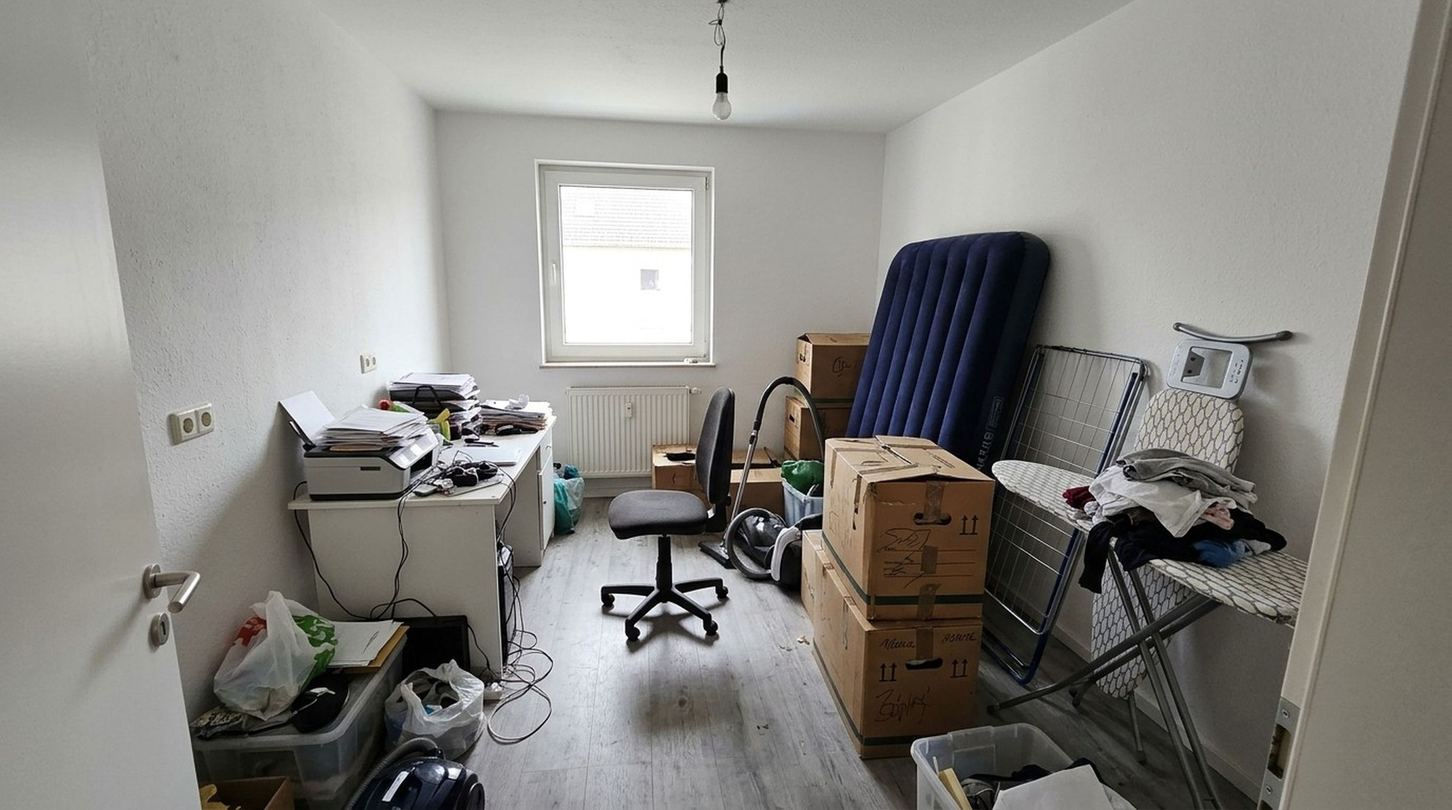
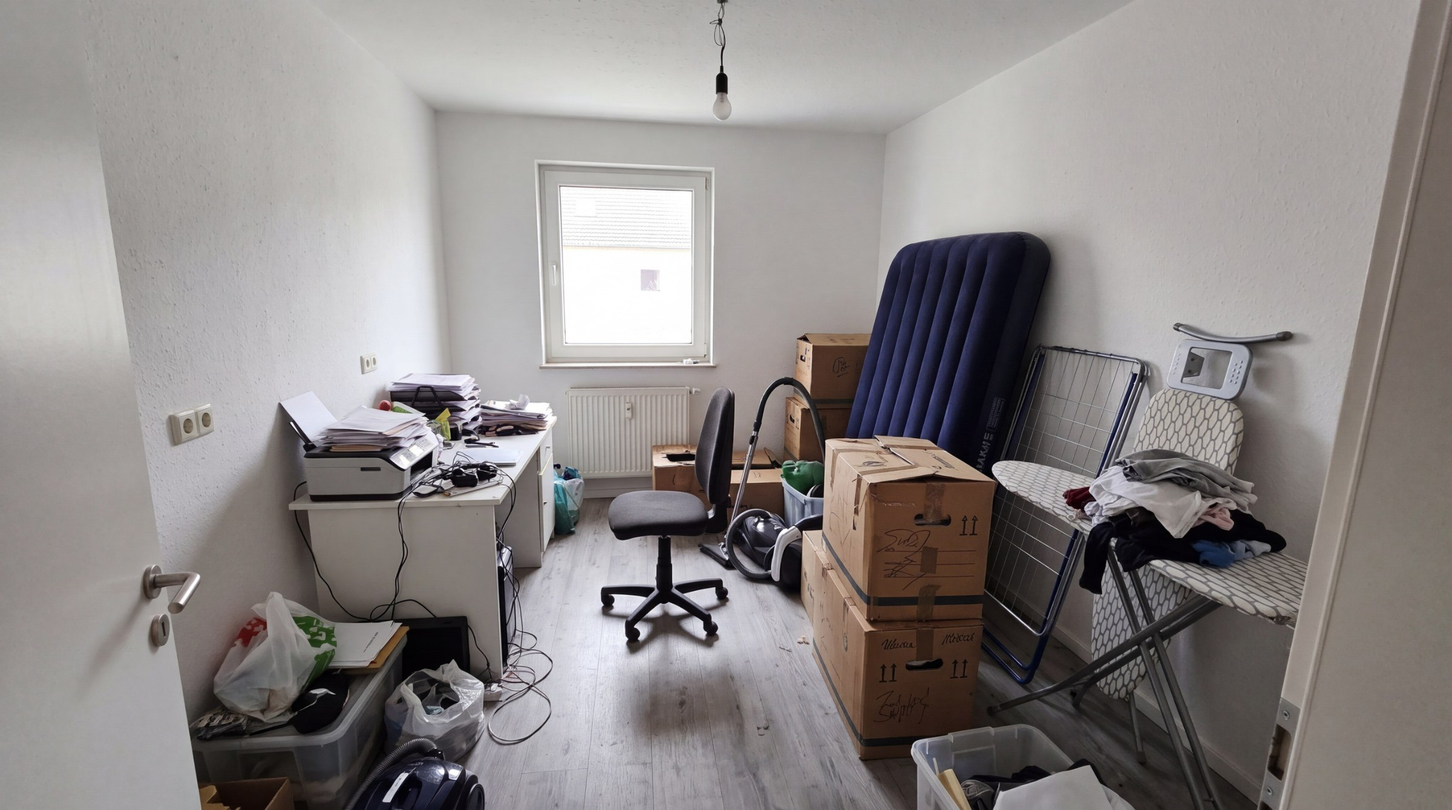
Images: replace 9 upscaled, blurry photos with sharp 4K-based versions (same framing)
Weihnachten, Minimalistisch, Sofa, Kinderzimmer and Gaestezimmer images
were 1376 px renders stretched to 2400 px. Re-rendered at 4K from the
same images, downscaled to 2400/1200, new OG crops, cache-busted URLs.

Claude-Session: https://claude.ai/code/session_01LahaRAnpmdkz9wijRiE1rf

diff --git a/magazin/kinderzimmer-das-mitwaechst/index.html b/magazin/kinderzimmer-das-mitwaechst/index.html
@@ -12,7 +12,7 @@
 <meta property="og:title" content="Ein Kinderzimmer, das mitwächst">
 <meta property="og:description" content="Gleicher Raum, gleicher Schrank, gleiches Fenster. Aber ein Zimmer, das noch in fünf Jahren passt.">
 <meta property="og:url" content="https://www.faindz.de/magazin/kinderzimmer-das-mitwaechst/">
-<meta property="og:image" content="https://www.faindz.de/magazin/img/kinderzimmer-og.jpg">
+<meta property="og:image" content="https://www.faindz.de/magazin/img/kinderzimmer-og.jpg?v=hq1">
 <meta name="twitter:card" content="summary_large_image">
 <link rel="icon" href="/favicon.ico" sizes="48x48">
 <link rel="icon" type="image/png" sizes="192x192" href="/favicon-192.png">
@@ -21,14 +21,14 @@
 <link rel="preconnect" href="https://fonts.gstatic.com" crossorigin>
 <link href="https://fonts.googleapis.com/css2?family=Inter:wght@300;400;500;600;700;800&family=JetBrains+Mono:wght@400;500&family=Fraunces:opsz,wght,SOFT@9..144,300;9..144,400;9..144,500;9..144,600&display=swap" rel="stylesheet">
 <link rel="stylesheet" href="/magazin/magazin.css?v=20261112a">
-<link rel="preload" as="image" href="/magazin/img/kinderzimmer-nachher-2400.jpg" imagesrcset="/magazin/img/kinderzimmer-nachher-1200.jpg 1200w, /magazin/img/kinderzimmer-nachher-2400.jpg 2400w" imagesizes="100vw">
+<link rel="preload" as="image" href="/magazin/img/kinderzimmer-nachher-2400.jpg?v=hq1" imagesrcset="/magazin/img/kinderzimmer-nachher-1200.jpg?v=hq1 1200w, /magazin/img/kinderzimmer-nachher-2400.jpg?v=hq1 2400w" imagesizes="100vw">
 <script type="application/ld+json">
 {
   "@context": "https://schema.org",
   "@type": "Article",
   "headline": "Ein Kinderzimmer, das mitwächst",
   "description": "Wie ein Kinderzimmer vom Kleinkind bis zur Schulzeit funktioniert: ein Bett, das bleibt, Regale auf Kinderhöhe, ein mitwachsender Schreibtisch und Farbe nur an der Wand. Mit Vorher-Nachher.",
-  "image": ["https://www.faindz.de/magazin/img/kinderzimmer-nachher-2400.jpg", "https://www.faindz.de/magazin/img/kinderzimmer-vorher-2400.jpg", "https://www.faindz.de/magazin/img/kinderzimmer-og.jpg"],
+  "image": ["https://www.faindz.de/magazin/img/kinderzimmer-nachher-2400.jpg?v=hq1", "https://www.faindz.de/magazin/img/kinderzimmer-vorher-2400.jpg?v=hq1", "https://www.faindz.de/magazin/img/kinderzimmer-og.jpg?v=hq1"],
   "datePublished": "2026-11-19",
   "dateModified": "2026-11-19",
   "inLanguage": "de-DE",
@@ -55,14 +55,14 @@
 <main>
   <div class="swipe" aria-label="Vorher und Nachher, zum Wechseln wischen">
     <div class="swipe-track">
-      <figure class="swipe-slide before-slide"><img src="/magazin/img/kinderzimmer-vorher-1200.jpg" alt="Vorher: Kinderzimmer mit weißem Kleinkindbett mit Gitter, bunter Bettwäsche, Spielzeug überall auf dem Boden, Plastiktisch mit zwei kleinen Stühlen und weißem Kleiderschrank" width="1200" height="670" loading="lazy"><figcaption class="swipe-tag">Vorher</figcaption></figure>
-      <figure class="swipe-slide after"><img src="/magazin/img/kinderzimmer-nachher-1200.jpg" alt="Nachher: dasselbe Kinderzimmer mit Holzbett 90 x 200 mit Rausfallschutz, salbeigrüner Bettwäsche, salbeigrün gestrichener unterer Wand am Fenster, kleinem Schreibtisch, weißem Würfelregal mit Körben, rundem cremefarbenem Teppich und Papierlampe" width="1200" height="670" loading="lazy"><figcaption class="swipe-tag">Nachher</figcaption></figure>
+      <figure class="swipe-slide before-slide"><img src="/magazin/img/kinderzimmer-vorher-1200.jpg?v=hq1" alt="Vorher: Kinderzimmer mit weißem Kleinkindbett mit Gitter, bunter Bettwäsche, Spielzeug überall auf dem Boden, Plastiktisch mit zwei kleinen Stühlen und weißem Kleiderschrank" width="1200" height="670" loading="lazy"><figcaption class="swipe-tag">Vorher</figcaption></figure>
+      <figure class="swipe-slide after"><img src="/magazin/img/kinderzimmer-nachher-1200.jpg?v=hq1" alt="Nachher: dasselbe Kinderzimmer mit Holzbett 90 x 200 mit Rausfallschutz, salbeigrüner Bettwäsche, salbeigrün gestrichener unterer Wand am Fenster, kleinem Schreibtisch, weißem Würfelregal mit Körben, rundem cremefarbenem Teppich und Papierlampe" width="1200" height="670" loading="lazy"><figcaption class="swipe-tag">Nachher</figcaption></figure>
     </div>
     <div class="swipe-nav"><button type="button" aria-pressed="true" data-i="0">Vorher</button><button type="button" aria-pressed="false" data-i="1">Nachher</button></div>
   </div>
   <section class="cover" data-cover aria-label="Vorher-Nachher-Vergleich">
-    <img src="/magazin/img/kinderzimmer-nachher-2400.jpg" srcset="/magazin/img/kinderzimmer-nachher-1200.jpg 1200w, /magazin/img/kinderzimmer-nachher-2400.jpg 2400w" sizes="100vw" alt="Nachher: dasselbe Kinderzimmer mit Holzbett 90 x 200 mit Rausfallschutz, salbeigrüner Bettwäsche, salbeigrün gestrichener unterer Wand am Fenster, kleinem Schreibtisch, weißem Würfelregal mit Körben, rundem cremefarbenem Teppich und Papierlampe" width="2400" height="1340">
-    <img class="before" src="/magazin/img/kinderzimmer-vorher-2400.jpg" srcset="/magazin/img/kinderzimmer-vorher-1200.jpg 1200w, /magazin/img/kinderzimmer-vorher-2400.jpg 2400w" sizes="100vw" alt="Vorher: Kinderzimmer mit weißem Kleinkindbett mit Gitter, bunter Bettwäsche, Spielzeug überall auf dem Boden, Plastiktisch mit zwei kleinen Stühlen und weißem Kleiderschrank" width="2400" height="1340">
+    <img src="/magazin/img/kinderzimmer-nachher-2400.jpg?v=hq1" srcset="/magazin/img/kinderzimmer-nachher-1200.jpg?v=hq1 1200w, /magazin/img/kinderzimmer-nachher-2400.jpg?v=hq1 2400w" sizes="100vw" alt="Nachher: dasselbe Kinderzimmer mit Holzbett 90 x 200 mit Rausfallschutz, salbeigrüner Bettwäsche, salbeigrün gestrichener unterer Wand am Fenster, kleinem Schreibtisch, weißem Würfelregal mit Körben, rundem cremefarbenem Teppich und Papierlampe" width="2400" height="1340">
+    <img class="before" src="/magazin/img/kinderzimmer-vorher-2400.jpg?v=hq1" srcset="/magazin/img/kinderzimmer-vorher-1200.jpg?v=hq1 1200w, /magazin/img/kinderzimmer-vorher-2400.jpg?v=hq1 2400w" sizes="100vw" alt="Vorher: Kinderzimmer mit weißem Kleinkindbett mit Gitter, bunter Bettwäsche, Spielzeug überall auf dem Boden, Plastiktisch mit zwei kleinen Stühlen und weißem Kleiderschrank" width="2400" height="1340">
     <div class="cover-line" aria-hidden="true"></div>
     <input class="cover-range" type="range" min="0" max="100" value="50" aria-label="Vorher-Nachher-Regler">
     <div class="cover-knob" aria-hidden="true">
@@ -199,7 +199,7 @@
   </div>
 
   <section class="try" aria-labelledby="try-title">
-    <img src="/magazin/img/kinderzimmer-nachher-1200.jpg" alt="" width="1200" height="670" loading="lazy">
+    <img src="/magazin/img/kinderzimmer-nachher-1200.jpg?v=hq1" alt="" width="1200" height="670" loading="lazy">
     <div class="wrap">
       <h2 id="try-title">Wie sähe das bei dir aus?</h2>
       <p>Wie könnte das Kinderzimmer bei dir aussehen? Lade ein Foto hoch und probier verschiedene Ideen aus.</p>

diff --git a/magazin/gaestezimmer-und-arbeitszimmer/index.html b/magazin/gaestezimmer-und-arbeitszimmer/index.html
@@ -12,7 +12,7 @@
 <meta property="og:title" content="Gästezimmer und Arbeitszimmer in einem">
 <meta property="og:description" content="Gleicher Raum, gleiches Fenster. Vorher Abstellkammer, jetzt Büro unter der Woche und Gästezimmer am Wochenende.">
 <meta property="og:url" content="https://www.faindz.de/magazin/gaestezimmer-und-arbeitszimmer/">
-<meta property="og:image" content="https://www.faindz.de/magazin/img/gaeste-og.jpg">
+<meta property="og:image" content="https://www.faindz.de/magazin/img/gaeste-og.jpg?v=hq1">
 <meta name="twitter:card" content="summary_large_image">
 <link rel="icon" href="/favicon.ico" sizes="48x48">
 <link rel="icon" type="image/png" sizes="192x192" href="/favicon-192.png">
@@ -21,14 +21,14 @@
 <link rel="preconnect" href="https://fonts.gstatic.com" crossorigin>
 <link href="https://fonts.googleapis.com/css2?family=Inter:wght@300;400;500;600;700;800&family=JetBrains+Mono:wght@400;500&family=Fraunces:opsz,wght,SOFT@9..144,300;9..144,400;9..144,500;9..144,600&display=swap" rel="stylesheet">
 <link rel="stylesheet" href="/magazin/magazin.css?v=20261112a">
-<link rel="preload" as="image" href="/magazin/img/gaeste-nachher-2400.jpg" imagesrcset="/magazin/img/gaeste-nachher-1200.jpg 1200w, /magazin/img/gaeste-nachher-2400.jpg 2400w" imagesizes="100vw">
+<link rel="preload" as="image" href="/magazin/img/gaeste-nachher-2400.jpg?v=hq1" imagesrcset="/magazin/img/gaeste-nachher-1200.jpg?v=hq1 1200w, /magazin/img/gaeste-nachher-2400.jpg?v=hq1 2400w" imagesizes="100vw">
 <script type="application/ld+json">
 {
   "@context": "https://schema.org",
   "@type": "Article",
   "headline": "Gästezimmer und Arbeitszimmer in einem",
   "description": "Wie aus einer Abstellkammer ein Zimmer wird, in dem man arbeiten und Besuch übernachten lassen kann: Schlafsofa, Schreibtisch am Fenster, Regale an der Wand und eine Kleiderstange. Mit Vorher-Nachher.",
-  "image": ["https://www.faindz.de/magazin/img/gaeste-nachher-2400.jpg", "https://www.faindz.de/magazin/img/gaeste-vorher-2400.jpg", "https://www.faindz.de/magazin/img/gaeste-og.jpg"],
+  "image": ["https://www.faindz.de/magazin/img/gaeste-nachher-2400.jpg?v=hq1", "https://www.faindz.de/magazin/img/gaeste-vorher-2400.jpg?v=hq1", "https://www.faindz.de/magazin/img/gaeste-og.jpg?v=hq1"],
   "datePublished": "2026-11-19",
   "dateModified": "2026-11-19",
   "inLanguage": "de-DE",
@@ -55,14 +55,14 @@
 <main>
   <div class="swipe" aria-label="Vorher und Nachher, zum Wechseln wischen">
     <div class="swipe-track">
-      <figure class="swipe-slide before-slide"><img src="/magazin/img/gaeste-vorher-1200.jpg" alt="Vorher: kleines Zimmer voller Umzugskartons, mit Bügelbrett, Wäscheständer, aufblasbarer Matratze an der Wand, Staubsauger und einem weißen Schreibtisch voller Papier und Drucker" width="1200" height="670" loading="lazy"><figcaption class="swipe-tag">Vorher</figcaption></figure>
-      <figure class="swipe-slide after"><img src="/magazin/img/gaeste-nachher-1200.jpg" alt="Nachher: dasselbe Zimmer mit hellgrauem Schlafsofa mit Kissen und Decke, Eichenschreibtisch mit schwarzer Leuchte und Laptop am Fenster, Polsterstuhl, zwei Wandregalen mit Büchern, Kleiderstange mit Holzbügeln, Leinenvorhängen und einem Vintage-Teppich in Terrakotta" width="1200" height="670" loading="lazy"><figcaption class="swipe-tag">Nachher</figcaption></figure>
+      <figure class="swipe-slide before-slide"><img src="/magazin/img/gaeste-vorher-1200.jpg?v=hq1" alt="Vorher: kleines Zimmer voller Umzugskartons, mit Bügelbrett, Wäscheständer, aufblasbarer Matratze an der Wand, Staubsauger und einem weißen Schreibtisch voller Papier und Drucker" width="1200" height="670" loading="lazy"><figcaption class="swipe-tag">Vorher</figcaption></figure>
+      <figure class="swipe-slide after"><img src="/magazin/img/gaeste-nachher-1200.jpg?v=hq1" alt="Nachher: dasselbe Zimmer mit hellgrauem Schlafsofa mit Kissen und Decke, Eichenschreibtisch mit schwarzer Leuchte und Laptop am Fenster, Polsterstuhl, zwei Wandregalen mit Büchern, Kleiderstange mit Holzbügeln, Leinenvorhängen und einem Vintage-Teppich in Terrakotta" width="1200" height="670" loading="lazy"><figcaption class="swipe-tag">Nachher</figcaption></figure>
     </div>
     <div class="swipe-nav"><button type="button" aria-pressed="true" data-i="0">Vorher</button><button type="button" aria-pressed="false" data-i="1">Nachher</button></div>
   </div>
   <section class="cover" data-cover aria-label="Vorher-Nachher-Vergleich">
-    <img src="/magazin/img/gaeste-nachher-2400.jpg" srcset="/magazin/img/gaeste-nachher-1200.jpg 1200w, /magazin/img/gaeste-nachher-2400.jpg 2400w" sizes="100vw" alt="Nachher: dasselbe Zimmer mit hellgrauem Schlafsofa mit Kissen und Decke, Eichenschreibtisch mit schwarzer Leuchte und Laptop am Fenster, Polsterstuhl, zwei Wandregalen mit Büchern, Kleiderstange mit Holzbügeln, Leinenvorhängen und einem Vintage-Teppich in Terrakotta" width="2400" height="1340">
-    <img class="before" src="/magazin/img/gaeste-vorher-2400.jpg" srcset="/magazin/img/gaeste-vorher-1200.jpg 1200w, /magazin/img/gaeste-vorher-2400.jpg 2400w" sizes="100vw" alt="Vorher: kleines Zimmer voller Umzugskartons, mit Bügelbrett, Wäscheständer, aufblasbarer Matratze an der Wand, Staubsauger und einem weißen Schreibtisch voller Papier und Drucker" width="2400" height="1340">
+    <img src="/magazin/img/gaeste-nachher-2400.jpg?v=hq1" srcset="/magazin/img/gaeste-nachher-1200.jpg?v=hq1 1200w, /magazin/img/gaeste-nachher-2400.jpg?v=hq1 2400w" sizes="100vw" alt="Nachher: dasselbe Zimmer mit hellgrauem Schlafsofa mit Kissen und Decke, Eichenschreibtisch mit schwarzer Leuchte und Laptop am Fenster, Polsterstuhl, zwei Wandregalen mit Büchern, Kleiderstange mit Holzbügeln, Leinenvorhängen und einem Vintage-Teppich in Terrakotta" width="2400" height="1340">
+    <img class="before" src="/magazin/img/gaeste-vorher-2400.jpg?v=hq1" srcset="/magazin/img/gaeste-vorher-1200.jpg?v=hq1 1200w, /magazin/img/gaeste-vorher-2400.jpg?v=hq1 2400w" sizes="100vw" alt="Vorher: kleines Zimmer voller Umzugskartons, mit Bügelbrett, Wäscheständer, aufblasbarer Matratze an der Wand, Staubsauger und einem weißen Schreibtisch voller Papier und Drucker" width="2400" height="1340">
     <div class="cover-line" aria-hidden="true"></div>
     <input class="cover-range" type="range" min="0" max="100" value="50" aria-label="Vorher-Nachher-Regler">
     <div class="cover-knob" aria-hidden="true">
@@ -199,7 +199,7 @@
   </div>
 
   <section class="try" aria-labelledby="try-title">
-    <img src="/magazin/img/gaeste-nachher-1200.jpg" alt="" width="1200" height="670" loading="lazy">
+    <img src="/magazin/img/gaeste-nachher-1200.jpg?v=hq1" alt="" width="1200" height="670" loading="lazy">
     <div class="wrap">
       <h2 id="try-title">Wie sähe das bei dir aus?</h2>
       <p>Wie könnte dein Gästezimmer aussehen? Lade ein Foto hoch und probier es aus.</p>

diff --git a/magazin/weihnachtlich-dekorieren-ohne-kitsch/index.html b/magazin/weihnachtlich-dekorieren-ohne-kitsch/index.html
@@ -12,7 +12,7 @@
 <meta property="og:title" content="Weihnachtlich dekorieren ohne Kitsch">
 <meta property="og:description" content="Gleicher Raum, gleiches Sofa, gleicher Baum in der Ecke. Nur ist es jetzt kein Lager für Weihnachtsdeko mehr, sondern ein Ort für lange Abende.">
 <meta property="og:url" content="https://www.faindz.de/magazin/weihnachtlich-dekorieren-ohne-kitsch/">
-<meta property="og:image" content="https://www.faindz.de/magazin/img/weihnachten-og.jpg">
+<meta property="og:image" content="https://www.faindz.de/magazin/img/weihnachten-og.jpg?v=hq1">
 <meta name="twitter:card" content="summary_large_image">
 <link rel="icon" href="/favicon.ico" sizes="48x48">
 <link rel="icon" type="image/png" sizes="192x192" href="/favicon-192.png">
@@ -21,7 +21,7 @@
 <link rel="preconnect" href="https://fonts.gstatic.com" crossorigin>
 <link href="https://fonts.googleapis.com/css2?family=Inter:wght@300;400;500;600;700;800&family=JetBrains+Mono:wght@400;500&family=Fraunces:opsz,wght,SOFT@9..144,300;9..144,400;9..144,500;9..144,600&display=swap" rel="stylesheet">
 <link rel="stylesheet" href="/magazin/magazin.css?v=20261112a">
-<link rel="preload" as="image" href="/magazin/img/weihnachten-nachher-2400.jpg" imagesrcset="/magazin/img/weihnachten-nachher-1200.jpg 1200w, /magazin/img/weihnachten-nachher-2400.jpg 2400w" imagesizes="100vw">
+<link rel="preload" as="image" href="/magazin/img/weihnachten-nachher-2400.jpg?v=hq1" imagesrcset="/magazin/img/weihnachten-nachher-1200.jpg?v=hq1 1200w, /magazin/img/weihnachten-nachher-2400.jpg?v=hq1 2400w" imagesizes="100vw">
 <script type="application/ld+json">
 {
   "@context": "https://schema.org",
@@ -29,9 +29,9 @@
   "headline": "Weihnachtlich dekorieren ohne Kitsch",
   "description": "Weihnachtsdeko, die gemütlich wirkt statt überladen: warmweißes Licht, zwei Farben, Zweige statt Figuren. Mit Vorher-Nachher und einer Kurzfassung.",
   "image": [
-    "https://www.faindz.de/magazin/img/weihnachten-nachher-2400.jpg",
-    "https://www.faindz.de/magazin/img/weihnachten-vorher-2400.jpg",
-    "https://www.faindz.de/magazin/img/weihnachten-og.jpg"
+    "https://www.faindz.de/magazin/img/weihnachten-nachher-2400.jpg?v=hq1",
+    "https://www.faindz.de/magazin/img/weihnachten-vorher-2400.jpg?v=hq1",
+    "https://www.faindz.de/magazin/img/weihnachten-og.jpg?v=hq1"
   ],
   "datePublished": "2026-11-24",
   "dateModified": "2026-11-24",
@@ -67,14 +67,14 @@
 <main>
   <div class="swipe" aria-label="Vorher und Nachher, zum Wechseln wischen">
     <div class="swipe-track">
-      <figure class="swipe-slide before-slide"><img src="/magazin/img/weihnachten-vorher-1200.jpg" alt="Vorher: Wohnzimmer mit bunten Lichterketten, Lametta, rotem Tischtuch, Plastik-Weihnachtsmann, Rentierkissen und einem überladenen rot-goldenen Baum unter grellem Deckenlicht" width="1200" height="670" loading="lazy"><figcaption class="swipe-tag">Vorher</figcaption></figure>
-      <figure class="swipe-slide after"><img src="/magazin/img/weihnachten-nachher-1200.jpg" alt="Nachher: dasselbe Wohnzimmer mit schlankem Baum in einem Korb, nur warmweißen Lichtern, Kerzen auf einem Holztablett, Tannenzweigen in einer Glasvase und Leinenkissen in Creme, Salbei und Rost" width="1200" height="670" loading="lazy"><figcaption class="swipe-tag">Nachher</figcaption></figure>
+      <figure class="swipe-slide before-slide"><img src="/magazin/img/weihnachten-vorher-1200.jpg?v=hq1" alt="Vorher: Wohnzimmer mit bunten Lichterketten, Lametta, rotem Tischtuch, Plastik-Weihnachtsmann, Rentierkissen und einem überladenen rot-goldenen Baum unter grellem Deckenlicht" width="1200" height="670" loading="lazy"><figcaption class="swipe-tag">Vorher</figcaption></figure>
+      <figure class="swipe-slide after"><img src="/magazin/img/weihnachten-nachher-1200.jpg?v=hq1" alt="Nachher: dasselbe Wohnzimmer mit schlankem Baum in einem Korb, nur warmweißen Lichtern, Kerzen auf einem Holztablett, Tannenzweigen in einer Glasvase und Leinenkissen in Creme, Salbei und Rost" width="1200" height="670" loading="lazy"><figcaption class="swipe-tag">Nachher</figcaption></figure>
     </div>
     <div class="swipe-nav"><button type="button" aria-pressed="true" data-i="0">Vorher</button><button type="button" aria-pressed="false" data-i="1">Nachher</button></div>
   </div>
   <section class="cover" data-cover aria-label="Vorher-Nachher-Vergleich">
-    <img src="/magazin/img/weihnachten-nachher-2400.jpg" srcset="/magazin/img/weihnachten-nachher-1200.jpg 1200w, /magazin/img/weihnachten-nachher-2400.jpg 2400w" sizes="100vw" alt="Nachher: dasselbe Wohnzimmer mit schlankem Baum in einem Korb, nur warmweißen Lichtern, Kerzen auf einem Holztablett, Tannenzweigen in einer Glasvase und Leinenkissen in Creme, Salbei und Rost" width="2400" height="1340">
-    <img class="before" src="/magazin/img/weihnachten-vorher-2400.jpg" srcset="/magazin/img/weihnachten-vorher-1200.jpg 1200w, /magazin/img/weihnachten-vorher-2400.jpg 2400w" sizes="100vw" alt="Vorher: Wohnzimmer mit bunten Lichterketten, Lametta, rotem Tischtuch, Plastik-Weihnachtsmann, Rentierkissen und einem überladenen rot-goldenen Baum unter grellem Deckenlicht" width="2400" height="1340">
+    <img src="/magazin/img/weihnachten-nachher-2400.jpg?v=hq1" srcset="/magazin/img/weihnachten-nachher-1200.jpg?v=hq1 1200w, /magazin/img/weihnachten-nachher-2400.jpg?v=hq1 2400w" sizes="100vw" alt="Nachher: dasselbe Wohnzimmer mit schlankem Baum in einem Korb, nur warmweißen Lichtern, Kerzen auf einem Holztablett, Tannenzweigen in einer Glasvase und Leinenkissen in Creme, Salbei und Rost" width="2400" height="1340">
+    <img class="before" src="/magazin/img/weihnachten-vorher-2400.jpg?v=hq1" srcset="/magazin/img/weihnachten-vorher-1200.jpg?v=hq1 1200w, /magazin/img/weihnachten-vorher-2400.jpg?v=hq1 2400w" sizes="100vw" alt="Vorher: Wohnzimmer mit bunten Lichterketten, Lametta, rotem Tischtuch, Plastik-Weihnachtsmann, Rentierkissen und einem überladenen rot-goldenen Baum unter grellem Deckenlicht" width="2400" height="1340">
     <div class="cover-line" aria-hidden="true"></div>
     <input class="cover-range" type="range" min="0" max="100" value="50" aria-label="Vorher-Nachher-Regler">
     <div class="cover-knob" aria-hidden="true">
@@ -238,7 +238,7 @@
   </div>
 
   <section class="try" aria-labelledby="try-title">
-    <img src="/magazin/img/weihnachten-nachher-1200.jpg" alt="" width="1200" height="670" loading="lazy">
+    <img src="/magazin/img/weihnachten-nachher-1200.jpg?v=hq1" alt="" width="1200" height="670" loading="lazy">
     <div class="wrap">
       <h2 id="try-title">Wie sähe das bei dir aus?</h2>
       <p>Wie sähe dein Wohnzimmer weihnachtlich aus? Lade ein Foto hoch und probier es aus.</p>

diff --git a/magazin/sofa-kleines-wohnzimmer/index.html b/magazin/sofa-kleines-wohnzimmer/index.html
@@ -12,7 +12,7 @@
 <meta property="og:title" content="Das richtige Sofa für ein kleines Wohnzimmer">
 <meta property="og:description" content="Gleicher Raum, gleiches Fenster, gleicher Fernseher. Nur das Sofa ist ein anderes, und plötzlich ist Platz.">
 <meta property="og:url" content="https://www.faindz.de/magazin/sofa-kleines-wohnzimmer/">
-<meta property="og:image" content="https://www.faindz.de/magazin/img/sofa-og.jpg">
+<meta property="og:image" content="https://www.faindz.de/magazin/img/sofa-og.jpg?v=hq1">
 <meta name="twitter:card" content="summary_large_image">
 <link rel="icon" href="/favicon.ico" sizes="48x48">
 <link rel="icon" type="image/png" sizes="192x192" href="/favicon-192.png">
@@ -21,14 +21,14 @@
 <link rel="preconnect" href="https://fonts.gstatic.com" crossorigin>
 <link href="https://fonts.googleapis.com/css2?family=Inter:wght@300;400;500;600;700;800&family=JetBrains+Mono:wght@400;500&family=Fraunces:opsz,wght,SOFT@9..144,300;9..144,400;9..144,500;9..144,600&display=swap" rel="stylesheet">
 <link rel="stylesheet" href="/magazin/magazin.css?v=20261112a">
-<link rel="preload" as="image" href="/magazin/img/sofa-nachher-2400.jpg" imagesrcset="/magazin/img/sofa-nachher-1200.jpg 1200w, /magazin/img/sofa-nachher-2400.jpg 2400w" imagesizes="100vw">
+<link rel="preload" as="image" href="/magazin/img/sofa-nachher-2400.jpg?v=hq1" imagesrcset="/magazin/img/sofa-nachher-1200.jpg?v=hq1 1200w, /magazin/img/sofa-nachher-2400.jpg?v=hq1 2400w" imagesizes="100vw">
 <script type="application/ld+json">
 {
   "@context": "https://schema.org",
   "@type": "Article",
   "headline": "Das richtige Sofa für ein kleines Wohnzimmer",
   "description": "Welches Sofa passt in ein kleines Wohnzimmer? Breite, Tiefe, Beine und Armlehnen entscheiden, ob der Raum eng oder luftig wirkt. Mit Vorher-Nachher und einer Checkliste zum Ausmessen.",
-  "image": ["https://www.faindz.de/magazin/img/sofa-nachher-2400.jpg", "https://www.faindz.de/magazin/img/sofa-vorher-2400.jpg", "https://www.faindz.de/magazin/img/sofa-og.jpg"],
+  "image": ["https://www.faindz.de/magazin/img/sofa-nachher-2400.jpg?v=hq1", "https://www.faindz.de/magazin/img/sofa-vorher-2400.jpg?v=hq1", "https://www.faindz.de/magazin/img/sofa-og.jpg?v=hq1"],
   "datePublished": "2026-11-19",
   "dateModified": "2026-11-19",
   "inLanguage": "de-DE",
@@ -55,14 +55,14 @@
 <main>
   <div class="swipe" aria-label="Vorher und Nachher, zum Wechseln wischen">
     <div class="swipe-track">
-      <figure class="swipe-slide before-slide"><img src="/magazin/img/sofa-vorher-1200.jpg" alt="Vorher: kleines Wohnzimmer mit großem dunkelgrauem Ecksofa mit Liegeteil, wuchtigem dunklen Holzcouchtisch und kleinem grauem Teppich" width="1200" height="670" loading="lazy"><figcaption class="swipe-tag">Vorher</figcaption></figure>
-      <figure class="swipe-slide after"><img src="/magazin/img/sofa-nachher-1200.jpg" alt="Nachher: dasselbe Wohnzimmer mit kompaktem beigem Sofa auf hellen Holzbeinen, rundem Couchtisch aus Eiche, Strickpouf, großem cremefarbenem Teppich und Stehlampe mit Leinenschirm" width="1200" height="670" loading="lazy"><figcaption class="swipe-tag">Nachher</figcaption></figure>
+      <figure class="swipe-slide before-slide"><img src="/magazin/img/sofa-vorher-1200.jpg?v=hq1" alt="Vorher: kleines Wohnzimmer mit großem dunkelgrauem Ecksofa mit Liegeteil, wuchtigem dunklen Holzcouchtisch und kleinem grauem Teppich" width="1200" height="670" loading="lazy"><figcaption class="swipe-tag">Vorher</figcaption></figure>
+      <figure class="swipe-slide after"><img src="/magazin/img/sofa-nachher-1200.jpg?v=hq1" alt="Nachher: dasselbe Wohnzimmer mit kompaktem beigem Sofa auf hellen Holzbeinen, rundem Couchtisch aus Eiche, Strickpouf, großem cremefarbenem Teppich und Stehlampe mit Leinenschirm" width="1200" height="670" loading="lazy"><figcaption class="swipe-tag">Nachher</figcaption></figure>
     </div>
     <div class="swipe-nav"><button type="button" aria-pressed="true" data-i="0">Vorher</button><button type="button" aria-pressed="false" data-i="1">Nachher</button></div>
   </div>
   <section class="cover" data-cover aria-label="Vorher-Nachher-Vergleich">
-    <img src="/magazin/img/sofa-nachher-2400.jpg" srcset="/magazin/img/sofa-nachher-1200.jpg 1200w, /magazin/img/sofa-nachher-2400.jpg 2400w" sizes="100vw" alt="Nachher: dasselbe Wohnzimmer mit kompaktem beigem Sofa auf hellen Holzbeinen, rundem Couchtisch aus Eiche, Strickpouf, großem cremefarbenem Teppich und Stehlampe mit Leinenschirm" width="2400" height="1340">
-    <img class="before" src="/magazin/img/sofa-vorher-2400.jpg" srcset="/magazin/img/sofa-vorher-1200.jpg 1200w, /magazin/img/sofa-vorher-2400.jpg 2400w" sizes="100vw" alt="Vorher: kleines Wohnzimmer mit großem dunkelgrauem Ecksofa mit Liegeteil, wuchtigem dunklen Holzcouchtisch und kleinem grauem Teppich" width="2400" height="1340">
+    <img src="/magazin/img/sofa-nachher-2400.jpg?v=hq1" srcset="/magazin/img/sofa-nachher-1200.jpg?v=hq1 1200w, /magazin/img/sofa-nachher-2400.jpg?v=hq1 2400w" sizes="100vw" alt="Nachher: dasselbe Wohnzimmer mit kompaktem beigem Sofa auf hellen Holzbeinen, rundem Couchtisch aus Eiche, Strickpouf, großem cremefarbenem Teppich und Stehlampe mit Leinenschirm" width="2400" height="1340">
+    <img class="before" src="/magazin/img/sofa-vorher-2400.jpg?v=hq1" srcset="/magazin/img/sofa-vorher-1200.jpg?v=hq1 1200w, /magazin/img/sofa-vorher-2400.jpg?v=hq1 2400w" sizes="100vw" alt="Vorher: kleines Wohnzimmer mit großem dunkelgrauem Ecksofa mit Liegeteil, wuchtigem dunklen Holzcouchtisch und kleinem grauem Teppich" width="2400" height="1340">
     <div class="cover-line" aria-hidden="true"></div>
     <input class="cover-range" type="range" min="0" max="100" value="50" aria-label="Vorher-Nachher-Regler">
     <div class="cover-knob" aria-hidden="true">
@@ -201,7 +201,7 @@
   </div>
 
   <section class="try" aria-labelledby="try-title">
-    <img src="/magazin/img/sofa-nachher-1200.jpg" alt="" width="1200" height="670" loading="lazy">
+    <img src="/magazin/img/sofa-nachher-1200.jpg?v=hq1" alt="" width="1200" height="670" loading="lazy">
     <div class="wrap">
       <h2 id="try-title">Wie sähe das bei dir aus?</h2>
       <p>Wie würde dein Wohnzimmer mit einem anderen Sofa aussehen? Lade ein Foto hoch und probier es aus.</p>

diff --git a/shop/index.html b/shop/index.html
@@ -45,35 +45,35 @@
     </section>
     <section class="ps-styles" aria-label="Stile">
       <a class="ps-style big" href="/shop/orientalisch/">
-        <img src="/shop/img/orientalisch-a-1200.jpg" alt="Helles Wohnzimmer mit Leinensofa, Kelim, Leder-Pouf und Messing-Hängelampe" width="1200" height="670">
+        <img src="/shop/img/orientalisch-a-1200.jpg?v=hq1" alt="Helles Wohnzimmer mit Leinensofa, Kelim, Leder-Pouf und Messing-Hängelampe" width="1200" height="670">
         <span class="txt"><span class="ps-kicker">Messing und Kelim</span><span class="name">Orientalisch</span><span class="dek">Messinglampen, Laternen, Kelim und Leder. Wenige starke Stücke, der Rest bleibt ruhig.</span><span class="more">Zum Stil</span></span>
       </a>
       <a class="ps-style" href="/shop/japandi/">
-        <img src="/magazin/img/japandi-nachher-1200.jpg" alt="Japandi-Wohnzimmer mit hellem Holz, Leinen und wenigen Dingen" width="1200" height="670" loading="lazy">
+        <img src="/magazin/img/japandi-nachher-1200.jpg?v=hq1" alt="Japandi-Wohnzimmer mit hellem Holz, Leinen und wenigen Dingen" width="1200" height="670" loading="lazy">
         <span class="name">Japandi</span>
         <span class="dek">Helles Holz, Leinen, Papierlicht und viel Luft.</span>
       </a>
       <a class="ps-style" href="/shop/natuerlich/">
-        <img src="/magazin/img/gruen-ruhig-1200.jpg" alt="Grünes Samtsofa mit Leinenkissen, Juteteppich und Prints in Erdtönen" width="1200" height="670" loading="lazy">
+        <img src="/magazin/img/gruen-ruhig-1200.jpg?v=hq1" alt="Grünes Samtsofa mit Leinenkissen, Juteteppich und Prints in Erdtönen" width="1200" height="670" loading="lazy">
         <span class="name">Natürlich und grün</span>
         <span class="dek">Grün, Jute, Rattan und Leinen.</span>
       </a>
       <a class="ps-style big rev" href="/shop/dunkel-und-gemuetlich/">
-        <img src="/magazin/img/gruen-dunkel-1200.jpg" alt="Grünes Samtsofa vor dunkelgrüner Wand mit Goldrahmen-Bild, Bogenlampe und Leder-Pouf" width="1200" height="670">
+        <img src="/magazin/img/gruen-dunkel-1200.jpg?v=hq1" alt="Grünes Samtsofa vor dunkelgrüner Wand mit Goldrahmen-Bild, Bogenlampe und Leder-Pouf" width="1200" height="670">
         <span class="txt"><span class="ps-kicker">Für dunkle Abende</span><span class="name">Dunkel und gemütlich</span><span class="dek">Samt, Messing, tiefe Farben und warmes Licht.</span><span class="more">Zum Stil</span></span>
       </a>
       <a class="ps-style" href="/shop/skandinavisch/">
-        <img src="/magazin/img/klein-nachher-1200.jpg" alt="Helles Wohnzimmer mit Leinensofa, hellem Teppich, Eichen-Sideboard und Leinenvorhängen" width="1200" height="670" loading="lazy">
+        <img src="/magazin/img/klein-nachher-1200.jpg?v=hq1" alt="Helles Wohnzimmer mit Leinensofa, hellem Teppich, Eichen-Sideboard und Leinenvorhängen" width="1200" height="670" loading="lazy">
         <span class="name">Skandinavisch</span>
         <span class="dek">Helles Holz, Wolle und weiches Licht.</span>
       </a>
       <a class="ps-style" href="/shop/80er-revival/">
-        <img src="/magazin/img/achtziger-nachher-1200.jpg" alt="Wohnzimmer mit Apricot-Wand, Wellenspiegel, Terrazzo-Tisch und Freischwinger aus Chrom" width="1200" height="670" loading="lazy">
+        <img src="/magazin/img/achtziger-nachher-1200.jpg?v=hq1" alt="Wohnzimmer mit Apricot-Wand, Wellenspiegel, Terrazzo-Tisch und Freischwinger aus Chrom" width="1200" height="670" loading="lazy">
         <span class="name">80er-Revival</span>
         <span class="dek">Chrom, Glas, Rundungen und Apricot.</span>
       </a>
       <a class="ps-style big" href="/shop/minimalistisch/">
-        <img src="/shop/img/minimalistisch-1200.jpg" alt="Helles Altbau-Wohnzimmer mit Bouclé-Sofa, schwarzer Stehleuchte, Glastischen, grauem Teppich und rundem Spiegel" width="1200" height="670">
+        <img src="/shop/img/minimalistisch-1200.jpg?v=hq1" alt="Helles Altbau-Wohnzimmer mit Bouclé-Sofa, schwarzer Stehleuchte, Glastischen, grauem Teppich und rundem Spiegel" width="1200" height="670">
         <span class="txt"><span class="ps-kicker">Neu im Partnershop</span><span class="name">Minimalistisch</span><span class="dek">Weiß, Schwarz, Bouclé und viel Platz.</span><span class="more">Zum Stil</span></span>
       </a>
     </section>

diff --git a/magazin/index.html b/magazin/index.html
@@ -72,7 +72,7 @@
     <h2 id="articles-title">Alle Artikel</h2>
     <div class="card-grid">
       <a class="card" href="/magazin/weihnachtlich-dekorieren-ohne-kitsch/">
-        <img src="/magazin/img/weihnachten-nachher-1200.jpg" alt="Wohnzimmer mit schlankem Baum im Korb, warmweißen Lichtern, Kerzen auf einem Holztablett und Leinenkissen in Creme, Salbei und Rost" width="1200" height="670" loading="lazy">
+        <img src="/magazin/img/weihnachten-nachher-1200.jpg?v=hq1" alt="Wohnzimmer mit schlankem Baum im Korb, warmweißen Lichtern, Kerzen auf einem Holztablett und Leinenkissen in Creme, Salbei und Rost" width="1200" height="670" loading="lazy">
         <span class="topic">Weihnachten</span>
         <span class="title">Weihnachtlich dekorieren ohne Kitsch</span>
         <span class="dek">Gleicher Raum, gleiches Sofa. Nur ist es jetzt kein Lager für Weihnachtsdeko mehr, sondern ein Ort für lange Abende.</span>
@@ -96,19 +96,19 @@
         <span class="dek">Gleicher Raum, gleicher Schrank, gleiches Fenster. Nur das Bett steht jetzt anders, und der Raum wirkt plötzlich geordnet.</span>
       </a>
       <a class="card" href="/magazin/sofa-kleines-wohnzimmer/">
-        <img src="/magazin/img/sofa-nachher-1200.jpg" alt="Kleines Wohnzimmer mit kompaktem beigem Sofa auf Holzbeinen und rundem Couchtisch" width="1200" height="670" loading="lazy">
+        <img src="/magazin/img/sofa-nachher-1200.jpg?v=hq1" alt="Kleines Wohnzimmer mit kompaktem beigem Sofa auf Holzbeinen und rundem Couchtisch" width="1200" height="670" loading="lazy">
         <span class="topic">Sofa</span>
         <span class="title">Das richtige Sofa für ein kleines Wohnzimmer</span>
         <span class="dek">Gleicher Raum, gleiches Fenster, gleicher Fernseher. Nur das Sofa ist ein anderes, und plötzlich ist Platz.</span>
       </a>
       <a class="card" href="/magazin/kinderzimmer-das-mitwaechst/">
-        <img src="/magazin/img/kinderzimmer-nachher-1200.jpg" alt="Ruhiges Kinderzimmer mit Holzbett, salbeigrüner Wand, Würfelregal und rundem Teppich" width="1200" height="670" loading="lazy">
+        <img src="/magazin/img/kinderzimmer-nachher-1200.jpg?v=hq1" alt="Ruhiges Kinderzimmer mit Holzbett, salbeigrüner Wand, Würfelregal und rundem Teppich" width="1200" height="670" loading="lazy">
         <span class="topic">Kinderzimmer</span>
         <span class="title">Ein Kinderzimmer, das mitwächst</span>
         <span class="dek">Gleicher Raum, gleicher Schrank, gleiches Fenster. Aber ein Zimmer, das noch in fünf Jahren passt.</span>
       </a>
       <a class="card" href="/magazin/gaestezimmer-und-arbeitszimmer/">
-        <img src="/magazin/img/gaeste-nachher-1200.jpg" alt="Kleines Gäste- und Arbeitszimmer mit Schlafsofa, Schreibtisch am Fenster und Vintage-Teppich" width="1200" height="670" loading="lazy">
+        <img src="/magazin/img/gaeste-nachher-1200.jpg?v=hq1" alt="Kleines Gäste- und Arbeitszimmer mit Schlafsofa, Schreibtisch am Fenster und Vintage-Teppich" width="1200" height="670" loading="lazy">
         <span class="topic">Gästezimmer</span>
         <span class="title">Gästezimmer und Arbeitszimmer in einem</span>
         <span class="dek">Gleicher Raum, gleiches Fenster. Vorher Abstellkammer, jetzt Büro unter der Woche und Gästezimmer am Wochenende.</span>

diff --git a/index.html b/index.html
@@ -5180,17 +5180,17 @@
       </div>
       <div class="hm-cards">
         <a class="hm-card" href="/magazin/sofa-kleines-wohnzimmer/">
-          <img src="/magazin/img/sofa-nachher-1200.jpg" alt="Kleines Wohnzimmer mit kompaktem beigem Sofa auf Holzbeinen und rundem Couchtisch" width="1200" height="670" loading="lazy">
+          <img src="/magazin/img/sofa-nachher-1200.jpg?v=hq1" alt="Kleines Wohnzimmer mit kompaktem beigem Sofa auf Holzbeinen und rundem Couchtisch" width="1200" height="670" loading="lazy">
           <span class="t">Sofa</span>
           <span class="n">Das richtige Sofa für ein kleines Wohnzimmer</span>
         </a>
         <a class="hm-card" href="/magazin/kinderzimmer-das-mitwaechst/">
-          <img src="/magazin/img/kinderzimmer-nachher-1200.jpg" alt="Ruhiges Kinderzimmer mit Holzbett, salbeigrüner Wand, Würfelregal und rundem Teppich" width="1200" height="670" loading="lazy">
+          <img src="/magazin/img/kinderzimmer-nachher-1200.jpg?v=hq1" alt="Ruhiges Kinderzimmer mit Holzbett, salbeigrüner Wand, Würfelregal und rundem Teppich" width="1200" height="670" loading="lazy">
           <span class="t">Kinderzimmer</span>
           <span class="n">Ein Kinderzimmer, das mitwächst</span>
         </a>
         <a class="hm-card" href="/magazin/gaestezimmer-und-arbeitszimmer/">
-          <img src="/magazin/img/gaeste-nachher-1200.jpg" alt="Kleines Gäste- und Arbeitszimmer mit Schlafsofa, Schreibtisch am Fenster und Vintage-Teppich" width="1200" height="670" loading="lazy">
+          <img src="/magazin/img/gaeste-nachher-1200.jpg?v=hq1" alt="Kleines Gäste- und Arbeitszimmer mit Schlafsofa, Schreibtisch am Fenster und Vintage-Teppich" width="1200" height="670" loading="lazy">
           <span class="t">Gästezimmer</span>
           <span class="n">Gästezimmer und Arbeitszimmer in einem</span>
         </a>

diff --git a/shop/minimalistisch/index.html b/shop/minimalistisch/index.html
@@ -41,7 +41,7 @@
   <div class="ps-wrap">
     <nav class="ps-crumbs" aria-label="Brotkrümelnavigation"><a href="/shop/">Partnershop</a><span aria-hidden="true">/</span><span>Minimalistisch</span></nav>
     <section class="ps-hero">
-      <img src="/shop/img/minimalistisch-2400.jpg" srcset="/shop/img/minimalistisch-1200.jpg 1200w, /shop/img/minimalistisch-2400.jpg 2400w" sizes="(max-width: 1248px) 100vw, 1200px" alt="Helles Altbau-Wohnzimmer mit Bouclé-Sofa, schwarzer Stehleuchte, Glastischen, grauem Teppich und rundem Spiegel" width="2400" height="1340">
+      <img src="/shop/img/minimalistisch-2400.jpg?v=hq1" srcset="/shop/img/minimalistisch-1200.jpg?v=hq1 1200w, /shop/img/minimalistisch-2400.jpg?v=hq1 2400w" sizes="(max-width: 1248px) 100vw, 1200px" alt="Helles Altbau-Wohnzimmer mit Bouclé-Sofa, schwarzer Stehleuchte, Glastischen, grauem Teppich und rundem Spiegel" width="2400" height="1340">
       <div class="ps-intro">
         <h1>Minimalistisch</h1>
         <div class="txt">

diff --git a/shop/80er-revival/index.html b/shop/80er-revival/index.html
@@ -41,7 +41,7 @@
   <div class="ps-wrap">
     <nav class="ps-crumbs" aria-label="Brotkrümelnavigation"><a href="/shop/">Partnershop</a><span aria-hidden="true">/</span><span>80er-Revival</span></nav>
     <section class="ps-hero">
-      <img src="/magazin/img/achtziger-nachher-2400.jpg" srcset="/magazin/img/achtziger-nachher-1200.jpg 1200w, /magazin/img/achtziger-nachher-2400.jpg 2400w" sizes="(max-width: 1248px) 100vw, 1200px" alt="Wohnzimmer mit Apricot-Wand, Wellenspiegel, Terrazzo-Tisch und Freischwinger aus Chrom" width="2400" height="1340">
+      <img src="/magazin/img/achtziger-nachher-2400.jpg?v=hq1" srcset="/magazin/img/achtziger-nachher-1200.jpg?v=hq1 1200w, /magazin/img/achtziger-nachher-2400.jpg?v=hq1 2400w" sizes="(max-width: 1248px) 100vw, 1200px" alt="Wohnzimmer mit Apricot-Wand, Wellenspiegel, Terrazzo-Tisch und Freischwinger aus Chrom" width="2400" height="1340">
       <div class="ps-intro">
         <h1>80er-Revival</h1>
         <div class="txt">

diff --git a/shop/dunkel-und-gemuetlich/index.html b/shop/dunkel-und-gemuetlich/index.html
@@ -41,7 +41,7 @@
   <div class="ps-wrap">
     <nav class="ps-crumbs" aria-label="Brotkrümelnavigation"><a href="/shop/">Partnershop</a><span aria-hidden="true">/</span><span>Dunkel und gemütlich</span></nav>
     <section class="ps-hero">
-      <img src="/magazin/img/gruen-dunkel-2400.jpg" srcset="/magazin/img/gruen-dunkel-1200.jpg 1200w, /magazin/img/gruen-dunkel-2400.jpg 2400w" sizes="(max-width: 1248px) 100vw, 1200px" alt="Grünes Samtsofa vor dunkelgrüner Wand mit Goldrahmen-Bild, Bogenlampe und Leder-Pouf" width="2400" height="1340">
+      <img src="/magazin/img/gruen-dunkel-2400.jpg?v=hq1" srcset="/magazin/img/gruen-dunkel-1200.jpg?v=hq1 1200w, /magazin/img/gruen-dunkel-2400.jpg?v=hq1 2400w" sizes="(max-width: 1248px) 100vw, 1200px" alt="Grünes Samtsofa vor dunkelgrüner Wand mit Goldrahmen-Bild, Bogenlampe und Leder-Pouf" width="2400" height="1340">
       <div class="ps-intro">
         <h1>Dunkel und gemütlich</h1>
         <div class="txt">

diff --git a/shop/orientalisch/index.html b/shop/orientalisch/index.html
@@ -41,7 +41,7 @@
   <div class="ps-wrap">
     <nav class="ps-crumbs" aria-label="Brotkrümelnavigation"><a href="/shop/">Partnershop</a><span aria-hidden="true">/</span><span>Orientalisch</span></nav>
     <section class="ps-hero">
-      <img src="/shop/img/orientalisch-b-2400.jpg" srcset="/shop/img/orientalisch-b-1200.jpg 1200w, /shop/img/orientalisch-b-2400.jpg 2400w" sizes="(max-width: 1248px) 100vw, 1200px" alt="Leseecke mit Ledersessel, Mosaiktisch, Messing-Stehlampe und Berberteppich vor einer Bogennische" width="2400" height="1340">
+      <img src="/shop/img/orientalisch-b-2400.jpg?v=hq1" srcset="/shop/img/orientalisch-b-1200.jpg?v=hq1 1200w, /shop/img/orientalisch-b-2400.jpg?v=hq1 2400w" sizes="(max-width: 1248px) 100vw, 1200px" alt="Leseecke mit Ledersessel, Mosaiktisch, Messing-Stehlampe und Berberteppich vor einer Bogennische" width="2400" height="1340">
       <div class="ps-intro">
         <h1>Orientalisch</h1>
         <div class="txt">

diff --git a/shop/skandinavisch/index.html b/shop/skandinavisch/index.html
@@ -41,7 +41,7 @@
   <div class="ps-wrap">
     <nav class="ps-crumbs" aria-label="Brotkrümelnavigation"><a href="/shop/">Partnershop</a><span aria-hidden="true">/</span><span>Skandinavisch</span></nav>
     <section class="ps-hero">
-      <img src="/magazin/img/klein-nachher-2400.jpg" srcset="/magazin/img/klein-nachher-1200.jpg 1200w, /magazin/img/klein-nachher-2400.jpg 2400w" sizes="(max-width: 1248px) 100vw, 1200px" alt="Helles Wohnzimmer mit Leinensofa, hellem Teppich, Eichen-Sideboard und Leinenvorhängen" width="2400" height="1340">
+      <img src="/magazin/img/klein-nachher-2400.jpg?v=hq1" srcset="/magazin/img/klein-nachher-1200.jpg?v=hq1 1200w, /magazin/img/klein-nachher-2400.jpg?v=hq1 2400w" sizes="(max-width: 1248px) 100vw, 1200px" alt="Helles Wohnzimmer mit Leinensofa, hellem Teppich, Eichen-Sideboard und Leinenvorhängen" width="2400" height="1340">
       <div class="ps-intro">
         <h1>Skandinavisch</h1>
         <div class="txt">
